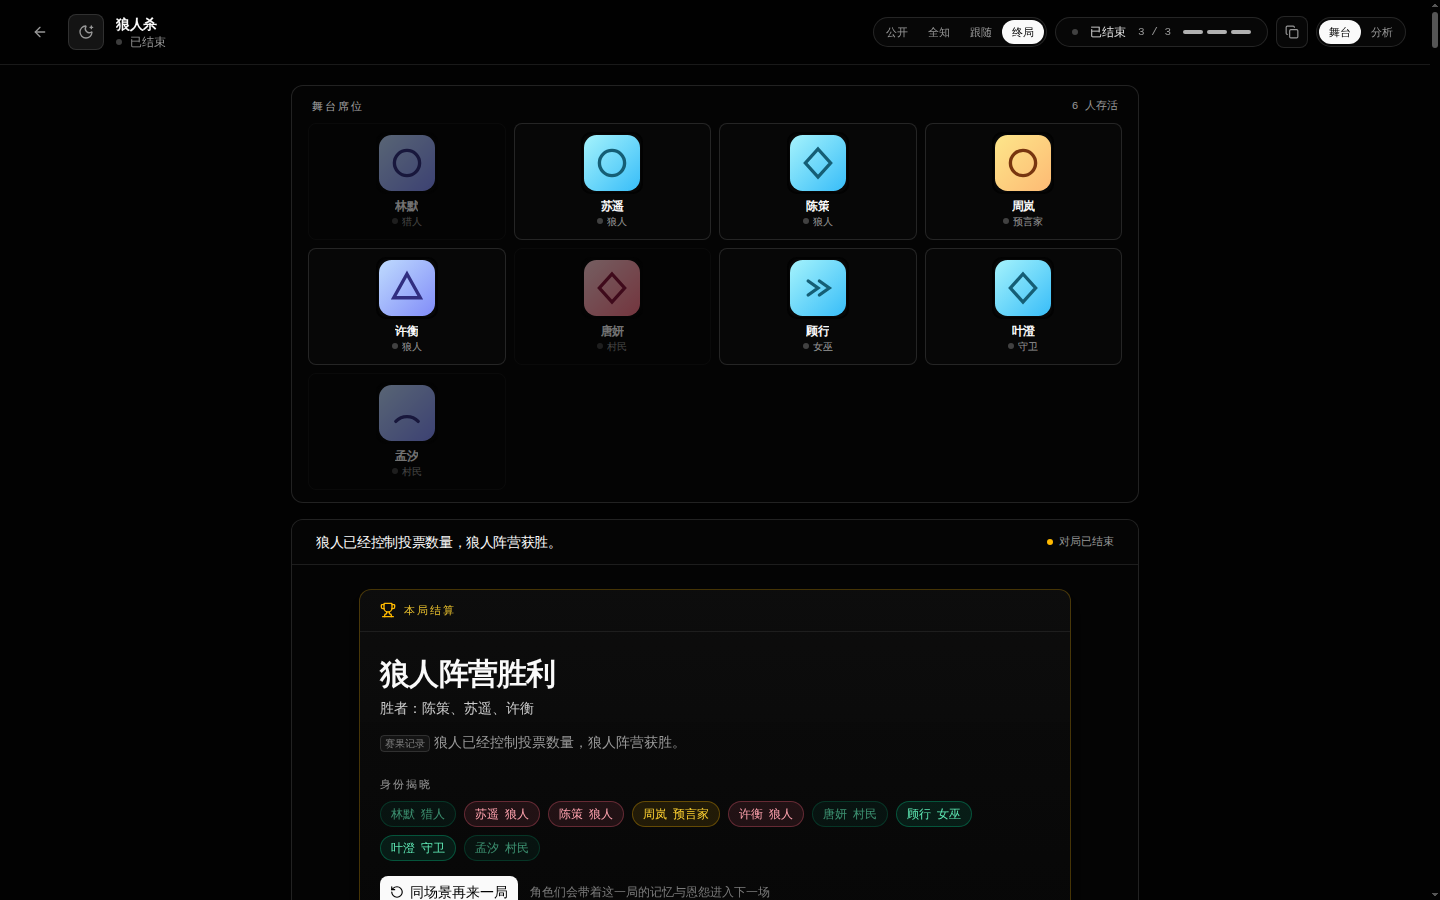
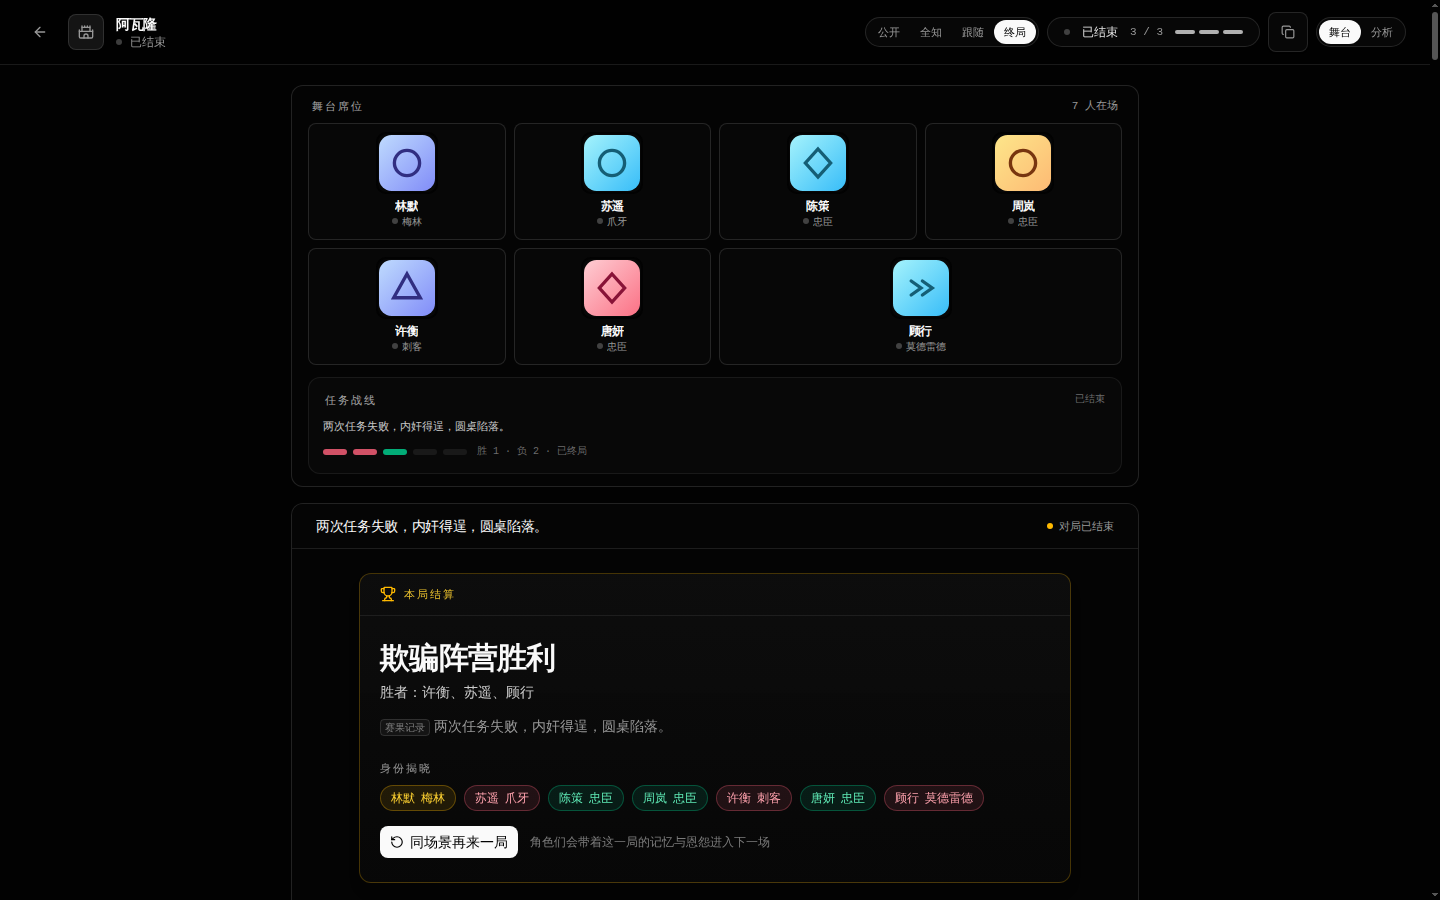
spectator: avalon endgame reason + score rounding in stage panels

diff --git a/src/components/society/stage-panels.tsx b/src/components/society/stage-panels.tsx
@@ -127,10 +127,14 @@ function AvalonQuestBoard({ details, room }: { details: Details; room: SocietyRo
   const team = stringList(details, "proposedTeam");
   const teamVotes = entries(details, "pendingTeamVotes");
   const ladyInspectId = str(details, "ladyInspectId") ?? null;
+  const outcome = str(details, "outcome");
   const maxQuests = 5;
   const currentQuest = successes + failures;
   return (
     <div className="space-y-2.5">
+      {outcome ? (
+        <p className="text-[11px] leading-4 text-foreground/80">{outcome}</p>
+      ) : null}
       <div className="flex items-center gap-1.5">
         {Array.from({ length: maxQuests }).map((_, i) => {
           const done = i < currentQuest;
@@ -140,7 +144,7 @@ function AvalonQuestBoard({ details, room }: { details: Details; room: SocietyRo
           );
         })}
         <span className="nums ml-1 font-mono text-[10px] text-muted-foreground/70">
-          胜 {successes} · 负 {failures} · 第 {currentQuest + 1} 个任务
+          {room.world.status === "finished" ? `胜 ${successes} · 负 ${failures} · 已终局` : `胜 ${successes} · 负 ${failures} · 第 ${currentQuest + 1} 个任务`}
         </span>
       </div>
       {team.length ? (
@@ -249,9 +253,9 @@ export function DuelStage({ room }: { room: SocietyRoomSnapshot }): ReactNode {
       <div className="flex items-stretch gap-2.5">
         <SideCard room={room} id={left} label={roleOf(left) ?? "左席"} detail={detailOf(left)} />
         <div className="flex flex-col items-center justify-center gap-1 px-0.5">
-          <span className="nums font-mono text-[11px] text-foreground/80">{leftScore ?? "—"}</span>
+          <span className="nums font-mono text-[11px] text-foreground/80">{leftScore !== undefined ? Math.round(leftScore) : "—"}</span>
           <span className="text-[9px] font-bold tracking-widest text-muted-foreground/50">VS</span>
-          <span className="nums font-mono text-[11px] text-foreground/80">{rightScore ?? "—"}</span>
+          <span className="nums font-mono text-[11px] text-foreground/80">{rightScore !== undefined ? Math.round(rightScore) : "—"}</span>
         </div>
         <SideCard room={room} id={right} label={roleOf(right) ?? "右席"} detail={detailOf(right)} />
       </div>
@@ -298,7 +302,7 @@ export function RiskStage({ room }: { room: SocietyRoomSnapshot }): ReactNode {
               <div className="h-1.5 min-w-0 flex-1 overflow-hidden rounded-full bg-white/[0.05]">
                 <div className="h-full rounded-full bg-gradient-to-r from-emerald-400/70 to-emerald-300/60 transition-all duration-700" style={{ width: `${Math.round((score / maxScore) * 100)}%` }} />
               </div>
-              <span className="nums w-8 shrink-0 text-right font-mono text-[11px] text-foreground/85">{score}</span>
+              <span className="nums w-8 shrink-0 text-right font-mono text-[11px] text-foreground/85">{Math.round(score)}</span>
             </div>
           ))}
         </div>
@@ -337,7 +341,7 @@ export function SecretStage({ room }: { room: SocietyRoomSnapshot }): ReactNode 
               <div className="min-w-0 flex-1">
                 <p className="truncate text-[11px] font-medium text-foreground/85">{nameOf(id)}</p>
                 <p className={cn("text-[10px]", submitted ? "text-emerald-300/80" : "text-muted-foreground/60")}>
-                  {room.world.status === "finished" ? (score !== undefined ? `分数 ${score}` : "已揭示") : submitted ? "已密封" : "待提交"}
+                  {room.world.status === "finished" ? (score !== undefined ? `分数 ${Math.round(score)}` : "已揭示") : submitted ? "已密封" : "待提交"}
                 </p>
               </div>
               {submitted ? <span className="size-1.5 shrink-0 rounded-full bg-emerald-400" /> : null}
